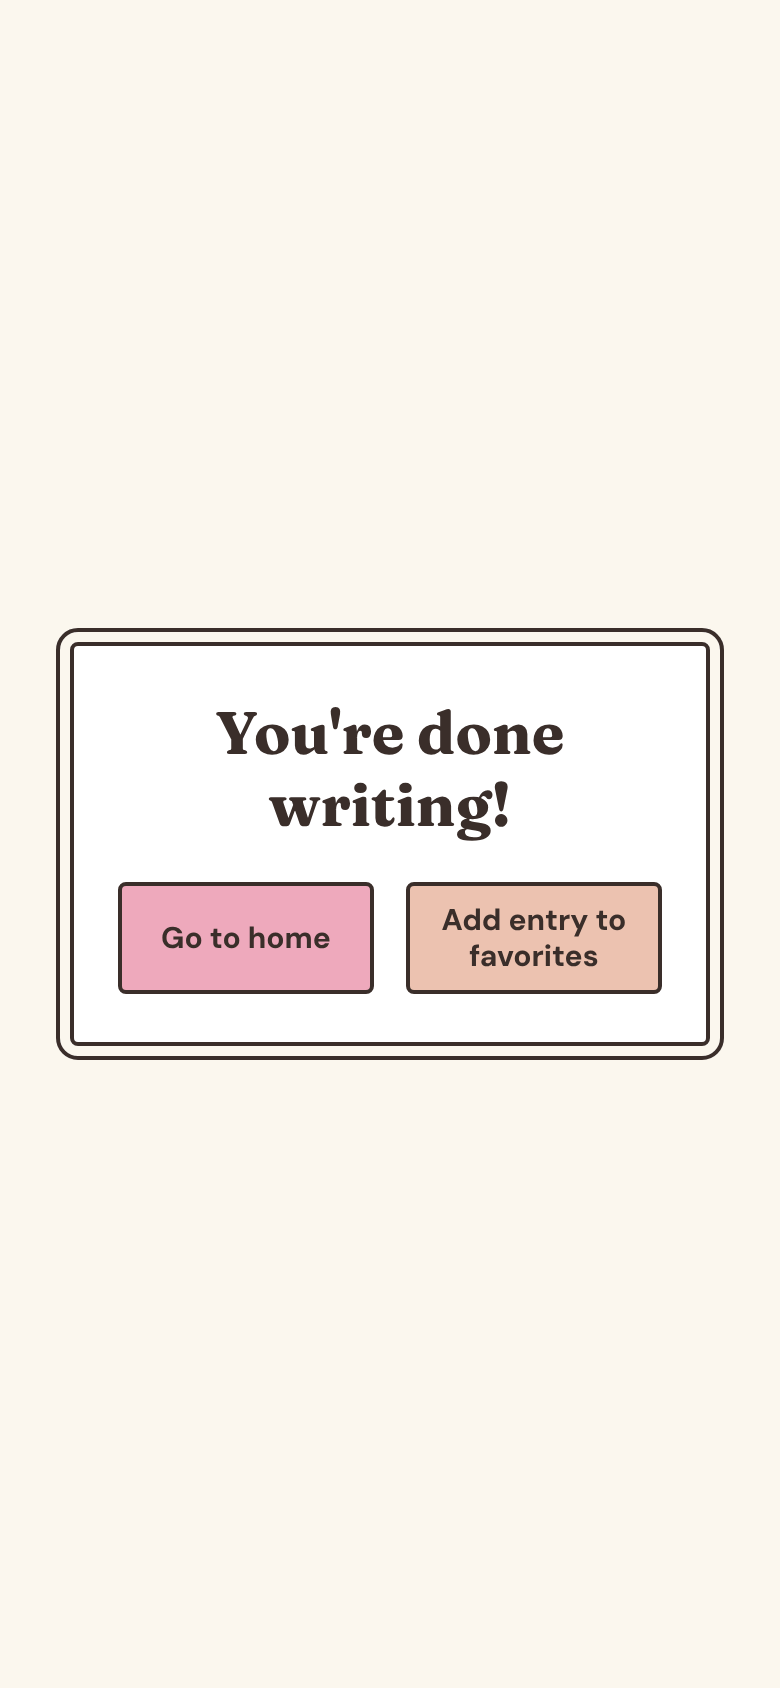
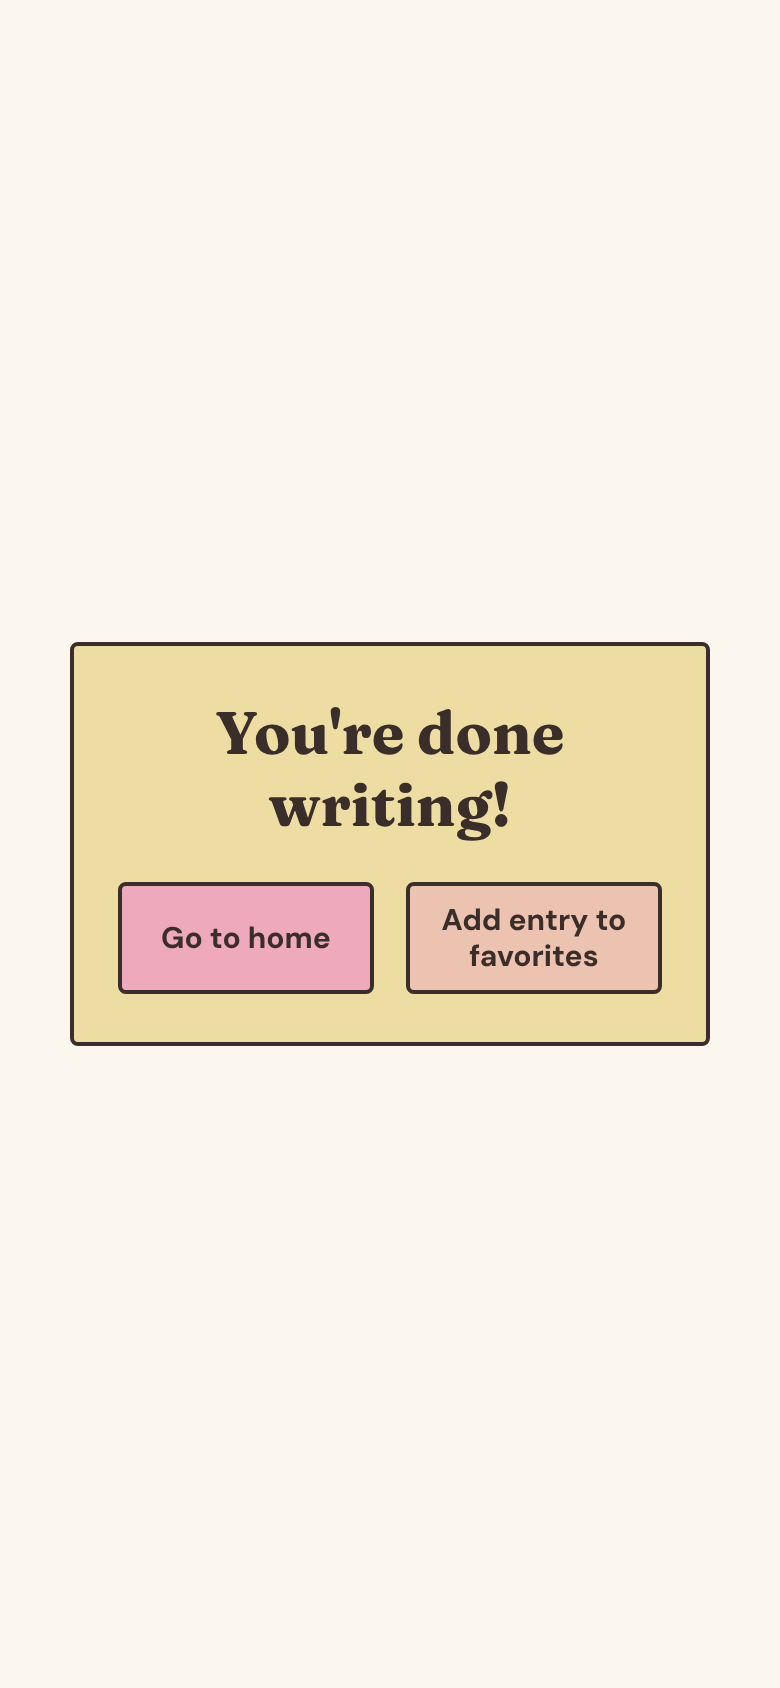
Fill the You're done writing box with yellow and use one outline, like Allison's drawing

Changed region(s): [[0.0615, 0.3697, 0.9538, 0.6469]]

diff --git a/app/styles.css b/app/styles.css
@@ -236,8 +236,8 @@ a.tile { text-decoration: none; }
 .su-error { margin: 0; color: var(--pink-deep); font-weight: 700; text-align: center; }
 
 /* ---------- You're done writing ---------- */
-/* Like Allison's drawing: a framed box (two outlines) with outlined buttons */
-.done-box { width: 100%; max-width: 320px; background: var(--white); border: 2px solid var(--ink); border-radius: 4px; outline: 2px solid var(--ink); outline-offset: 5px; padding: 26px 22px 24px; display: flex; flex-direction: column; gap: 20px; }
+/* Like Allison's drawing: a yellow box with outlined buttons */
+.done-box { width: 100%; max-width: 320px; background: var(--yellow); border: 2px solid var(--ink); border-radius: 4px; padding: 26px 22px 24px; display: flex; flex-direction: column; gap: 20px; }
 .done-box .title { font-size: 30px; }
 .done-btns { display: grid; grid-template-columns: 1fr 1fr; gap: 16px; }
 .done-btns .btn { padding: 8px 10px; font-size: 15px; border: 2px solid var(--ink); border-radius: 4px; }

diff --git a/app/sw.js b/app/sw.js
@@ -1,6 +1,6 @@
 // Lets the app open even without internet, after the first visit.
 // When you change any app file, bump the version number so phones get the update.
-const CACHE = 'wpa-v25';
+const CACHE = 'wpa-v26';
 const FILES = ['./', 'index.html', 'styles.css', 'data.js', 'app.js', 'cloud.js', 'manifest.webmanifest',
   'icons/icon-192.png', 'icons/icon-512.png', 'icons/apple-touch-icon.png'];
 
